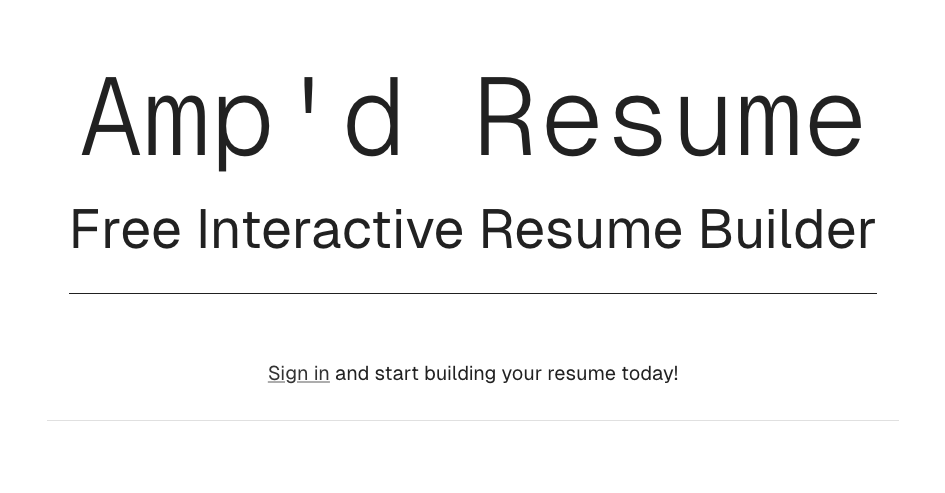
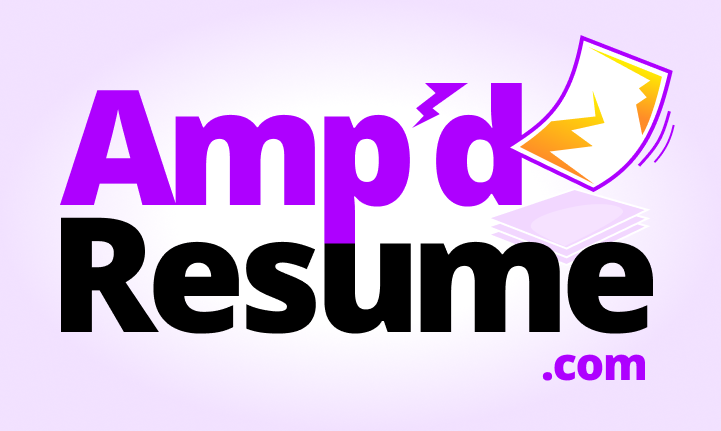
feat: branding update.

diff --git a/src/app/page.tsx b/src/app/page.tsx
@@ -1,7 +1,6 @@
 import {
   Box,
   Container,
-  Divider,
   List,
   ListItem,
   ListItemText,
@@ -12,6 +11,7 @@ import {
 import Image from "next/image";
 import { Metadata } from "next";
 import { MuiLink } from "@/components/MuiLink";
+import { ThemeAwareImage } from "./components/ThemeAwareImage";
 import { getSession } from "@/lib/auth";
 import { prisma } from "@/lib/prisma";
 
@@ -99,17 +99,47 @@ export default async function HomePage() {
           textAlign: "center",
         }}
       >
-        <Typography component="h1" sx={{ mb: 2, typography: { sm: "h1", xs: "h4" } }}>
+        <ThemeAwareImage
+          lightSrc="/images/ampd-resume-logo.png"
+          darkSrc="/images/ampd-resume-dark-mode-logo.png"
+          alt="Amp'd Resume Logo"
+          width={0}
+          height={0}
+          sizes="100vw"
+          style={{
+            width: "100%",
+            height: "auto",
+            maxWidth: "700px",
+          }}
+          ariaLabel="Amp'd Resume"
+        />
+        <Typography
+          component="h1"
+          sx={{
+            position: "absolute",
+            left: "-10000px",
+            width: "1px",
+            height: "1px",
+            overflow: "hidden",
+          }}
+        >
           Amp&apos;d Resume
         </Typography>
         <Typography
           component="h2"
-          sx={{ mb: 4, pb: 4, borderBottom: "1px solid", typography: { sm: "h3", xs: "h5" } }}
+          sx={{
+            mt: 4,
+            mb: 4,
+            pt: 2,
+            pb: 2,
+            width: "100%",
+            typography: { sm: "h4", xs: "h5" },
+          }}
         >
           Free Interactive Resume Builder
         </Typography>
         {user ? (
-          <>
+          <Box sx={{ p: 2, width: "100%" }}>
             <Typography component="h3" sx={{ typography: { sm: "h5", xs: "h6" } }}>
               Welcome back, {user.name}!{" "}
             </Typography>
@@ -120,7 +150,7 @@ export default async function HomePage() {
             >
               <MuiLink href={`/edit/profile`}>Edit your resume here.</MuiLink>
             </Typography>
-          </>
+          </Box>
         ) : (
           <Typography
             sx={{
@@ -133,38 +163,17 @@ export default async function HomePage() {
         )}
       </Box>
       <Box>
-        <Divider />
         <Heading>What is Amp&apos;d Resume?</Heading>
         <Paragraph>
           <strong>Amp&apos;d Resume</strong> is an interactive resume builder that allows you to
           build your resume and host it <em>at no cost.</em> You can also download your resume as a
-          PDF to use in job applications!
+          PDF to use in job applications.
         </Paragraph>
         <Paragraph>
           Your resume is made up of sections. Each section can be edited to include your own
-          information. You can add or remove sections as you like. Watch this video for a quick
-          overview on how to set up your resume:
+          information. You can add or remove sections as you like!
         </Paragraph>
-        <Box
-          sx={{
-            position: "relative",
-            width: "100%",
-            height: "0",
-            paddingBottom: "56.25%",
-            marginBottom: "2rem",
-          }}
-        >
-          <iframe
-            width="100%"
-            height="100%"
-            src="https://www.youtube.com/embed/1SdxiH73ovQ"
-            title="YouTube video player"
-            allow="accelerometer; autoplay; clipboard-write; encrypted-media; gyroscope; picture-in-picture"
-            allowFullScreen
-            style={{ position: "absolute", top: 0, left: 0, width: "100%", height: "100%" }}
-          ></iframe>
-        </Box>
-        <Paragraph sx={{ textAlign: "center" }}>
+        <Paragraph>
           Check out the Amp&apos;d Resume founder&apos;s resume{" "}
           <MuiLink href="/r/michael-dinerstein" target="_blank">
             here
@@ -190,56 +199,48 @@ export default async function HomePage() {
           of maintaining a website.
         </Paragraph>
         <Paragraph>Think of it as a multi-purpose web presence:</Paragraph>
-        <Box>
-          <List sx={{ listStyleType: "disc" }}>
-            <ListItem sx={{ display: "list-item" }}>
-              <ListItemText>
-                The content is based on your real work history and skills.
-              </ListItemText>
-            </ListItem>
-            <ListItem sx={{ display: "list-item" }}>
-              <ListItemText>
-                Your Amp&apos;d Resume is <strong>interactive</strong> and <strong>engaging</strong>{" "}
-                for reviewers.
-              </ListItemText>
-            </ListItem>
-            <ListItem sx={{ display: "list-item" }}>
-              <ListItemText>
-                You can maintain your interactive and PDF-version resume in <em>one place.</em>
-              </ListItemText>
-            </ListItem>
-          </List>
-        </Box>
+        <List sx={{ listStyleType: "disc" }}>
+          <ListItem sx={{ display: "list-item" }}>
+            <ListItemText>The content is based on your real work history and skills.</ListItemText>
+          </ListItem>
+          <ListItem sx={{ display: "list-item" }}>
+            <ListItemText>
+              Your Amp&apos;d Resume is <strong>interactive</strong> and <strong>engaging</strong>{" "}
+              for reviewers.
+            </ListItemText>
+          </ListItem>
+          <ListItem sx={{ display: "list-item" }}>
+            <ListItemText>
+              You can maintain your interactive and PDF-version resume in <em>one place.</em>
+            </ListItemText>
+          </ListItem>
+        </List>
         <Heading>New Features</Heading>
         <Paragraph>
           Amp&apos;d Resume is constantly being updated with new features. Some of the features that
           are coming soon include:
         </Paragraph>
-        <Box>
-          <List sx={{ listStyleType: "disc" }}>
-            <ListItem sx={{ display: "list-item" }}>
-              <ListItemText>
-                <strong>More Open-Source Templates!</strong> - To contribute, check out the{" "}
-                <MuiLink href="https://github.com/mission-minded-llc/ampdresume-theme">
-                  GitHub repo.
-                </MuiLink>
-              </ListItemText>
-            </ListItem>
-            <ListItem sx={{ display: "list-item" }}>
-              <ListItemText>
-                <strong>AI-assisted Revisions</strong> - Want to tailor your resume for a specific
-                job listing? Paste the job listing and get a cusomtized version of <em>your</em>{" "}
-                resume targeting the job posting&apos; requirements. This process saves an
-                interactive version as well as a PDF version for a specific job.
-              </ListItemText>
-            </ListItem>
-          </List>
-        </Box>
-        <Box sx={{ mt: 5, mb: 5 }}>
-          <Typography variant="body1" sx={{ textAlign: "center" }}>
-            <MuiLink href="/login">Sign in</MuiLink> and start building your resume today!
-          </Typography>
-        </Box>
+        <List sx={{ listStyleType: "disc" }}>
+          <ListItem sx={{ display: "list-item" }}>
+            <ListItemText>
+              <strong>More Open-Source Templates!</strong> - To contribute, check out the{" "}
+              <MuiLink href="https://github.com/mission-minded-llc/ampdresume-theme">
+                GitHub repo.
+              </MuiLink>
+            </ListItemText>
+          </ListItem>
+          <ListItem sx={{ display: "list-item" }}>
+            <ListItemText>
+              <strong>AI-assisted Revisions</strong> - Want to tailor your resume for a specific job
+              listing? Paste the job listing and get a cusomtized version of <em>your</em> resume
+              targeting the job posting&apos; requirements. This process saves an interactive
+              version as well as a PDF version for a specific job.
+            </ListItemText>
+          </ListItem>
+        </List>
+        <Paragraph>
+          <MuiLink href="/login">Sign in</MuiLink> and start building your resume today!
+        </Paragraph>
       </Box>
     </Container>
   );

diff --git a/src/app/components/ThemeAwareImage.tsx b/src/app/components/ThemeAwareImage.tsx
@@ -1,0 +1,40 @@
+"use client";
+
+import Image from "next/image";
+import { useTheme } from "@mui/material/styles";
+
+interface ThemeAwareImageProps {
+  lightSrc: string;
+  darkSrc: string;
+  alt: string;
+  width?: number;
+  height?: number;
+  sizes?: string;
+  style?: React.CSSProperties;
+  ariaLabel?: string;
+}
+
+export const ThemeAwareImage: React.FC<ThemeAwareImageProps> = ({
+  lightSrc,
+  darkSrc,
+  alt,
+  width = 0,
+  height = 0,
+  sizes = "100vw",
+  style,
+  ariaLabel,
+}) => {
+  const theme = useTheme();
+
+  return (
+    <Image
+      src={theme.palette.mode === "dark" ? darkSrc : lightSrc}
+      alt={alt}
+      width={width}
+      height={height}
+      sizes={sizes}
+      style={style}
+      aria-label={ariaLabel}
+    />
+  );
+};

diff --git a/src/app/components/Layout.tsx b/src/app/components/Layout.tsx
@@ -24,8 +24,8 @@ export const Layout = ({ children }: { children: React.ReactNode }) => {
         light: themeAppearance === "dark" ? "#333" : "#eee",
       },
       secondary: {
-        main: themeAppearance === "dark" ? "#cf75ff" : "#690e9c",
-        light: themeAppearance === "dark" ? "#690e9c" : "#cf75ff",
+        main: themeAppearance === "dark" ? "#AE00FF" : "#FF8C28",
+        light: themeAppearance === "dark" ? "#FF8C28" : "#AE00FF",
       },
       background: {
         default: themeAppearance === "dark" ? "#151515" : "#fff",

diff --git a/src/app/layout.tsx b/src/app/layout.tsx
@@ -25,6 +25,7 @@ export default async function RootLayout({
       <head>
         {process.env?.GTM_ID ? <GoogleTagManager gtmId={process.env.GTM_ID} /> : null}
         <meta name="viewport" content="initial-scale=1, width=device-width" />
+        <link rel="icon" href="/images/ampd-resume-favicon.png" />
       </head>
       <body className={`${geistSans.variable} ${geistMono.variable}`}>
         <ThemeAppearanceProvider>
